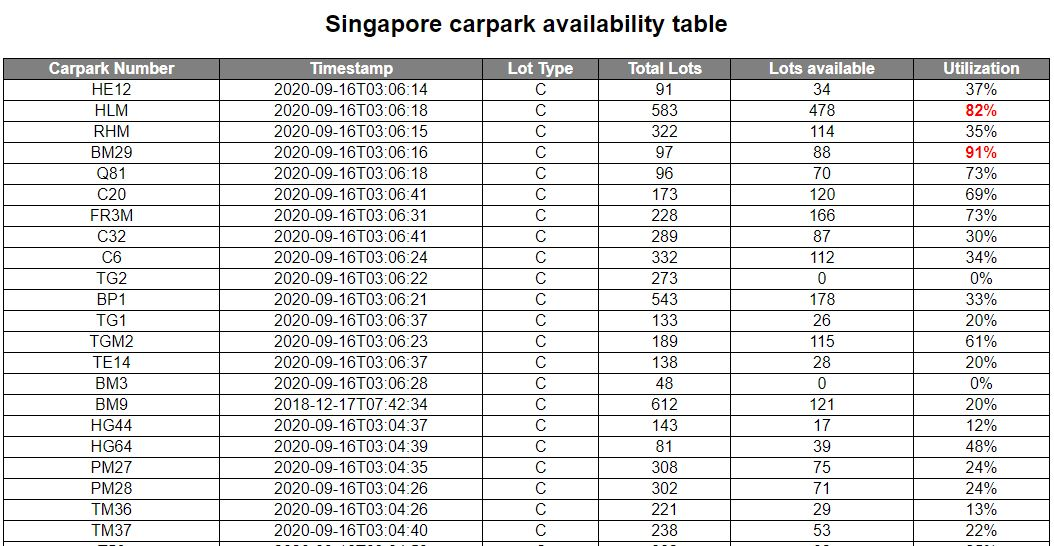
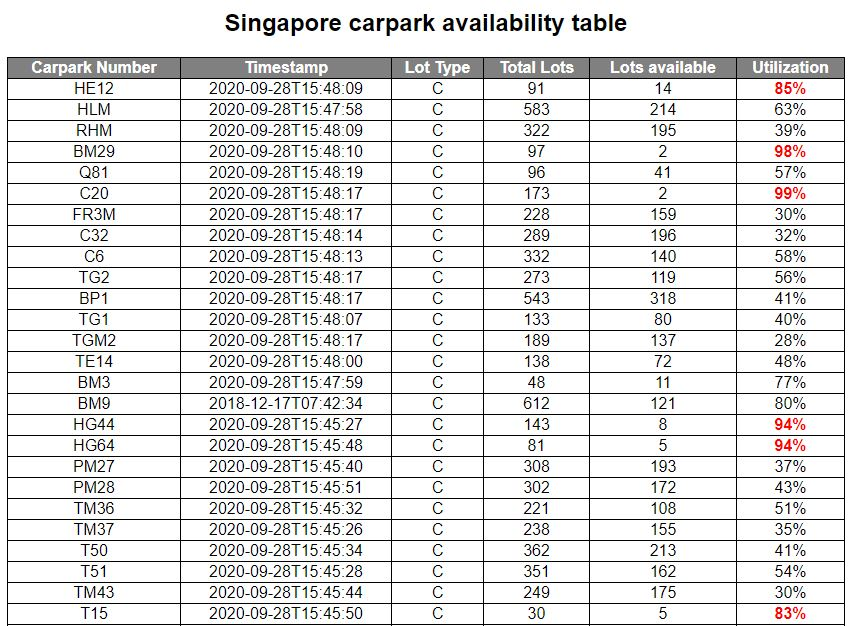
lab 3 updated

diff --git a/lab3.html b/lab3.html
@@ -47,6 +47,16 @@
                 </section>
 
                 <section>
+                    <h2>Adding JQuery</h2>
+                    <p>Easiest is to import via script via a CDN (content delivery network)</p>
+                    <pre><code>
+&lt;script src="https://ajax.googleapis.com/ajax/libs/jquery/3.5.1/jquery.min.js">&lt;/script>
+                    </code></pre>
+                    <p class="smallfont">Other methods: downloading and importing yourself</p>
+                    <p class="smallfont">Install as a package, using some module bundler to manage (e.g. webpack)</p>
+                </section>
+
+                <section>
                     <h2>Function chaining</h2>
                     <p>Or why JQuery became popular</p>
                     <p>You could write this in plain vanilla JS:</p>
@@ -61,16 +71,6 @@ document.getElementById("main").appendChild(node);
 $("#main").append("<p>Test</p>");
                     </code></pre>
                     <p class="smallfont"><a href="https://medium.com/@saginadir/native-function-chaining-in-javascript-what-we-can-learn-from-jquery-3b42d5d4a0d">Function chaining makes reading / writing code easier.</a></p>
-                </section>
-
-                <section>
-                    <h2>Adding JQuery</h2>
-                    <p>Easiest is to import via script via a CDN (content delivery network)</p>
-                    <pre><code>
-&lt;script src="https://ajax.googleapis.com/ajax/libs/jquery/3.5.1/jquery.min.js">&lt;/script>
-                    </code></pre>
-                    <p class="smallfont">Other methods: downloading and importing yourself</p>
-                    <p class="smallfont">Install as a package, using some module bundler to manage (e.g. webpack)</p>
                 </section>
 
                 <section>
@@ -163,7 +163,7 @@ $("#main").append("<p>Test</p>");
                     <li>Connect to the data.gov.sg carpark API and get the realtime dataset. It is detailed <a href="https://data.gov.sg/dataset/carpark-availability">here</a>.</li>
                     <li>The URI for the API is: <a href="https://api.data.gov.sg/v1/transport/carpark-availability">https://api.data.gov.sg/v1/transport/carpark-availability</a></li>
                     <li>Print out all the data into a table - carpark number, timestamp, lot type, total lots, lot availability, and utilization.</li>
-                    <li>Utilization is calculated - lot availability / total lots.</li>
+                    <li>Utilization is calculated. It is (total lots - available lots) / total lots.</li>
                     </ul>
                 </section>
 
